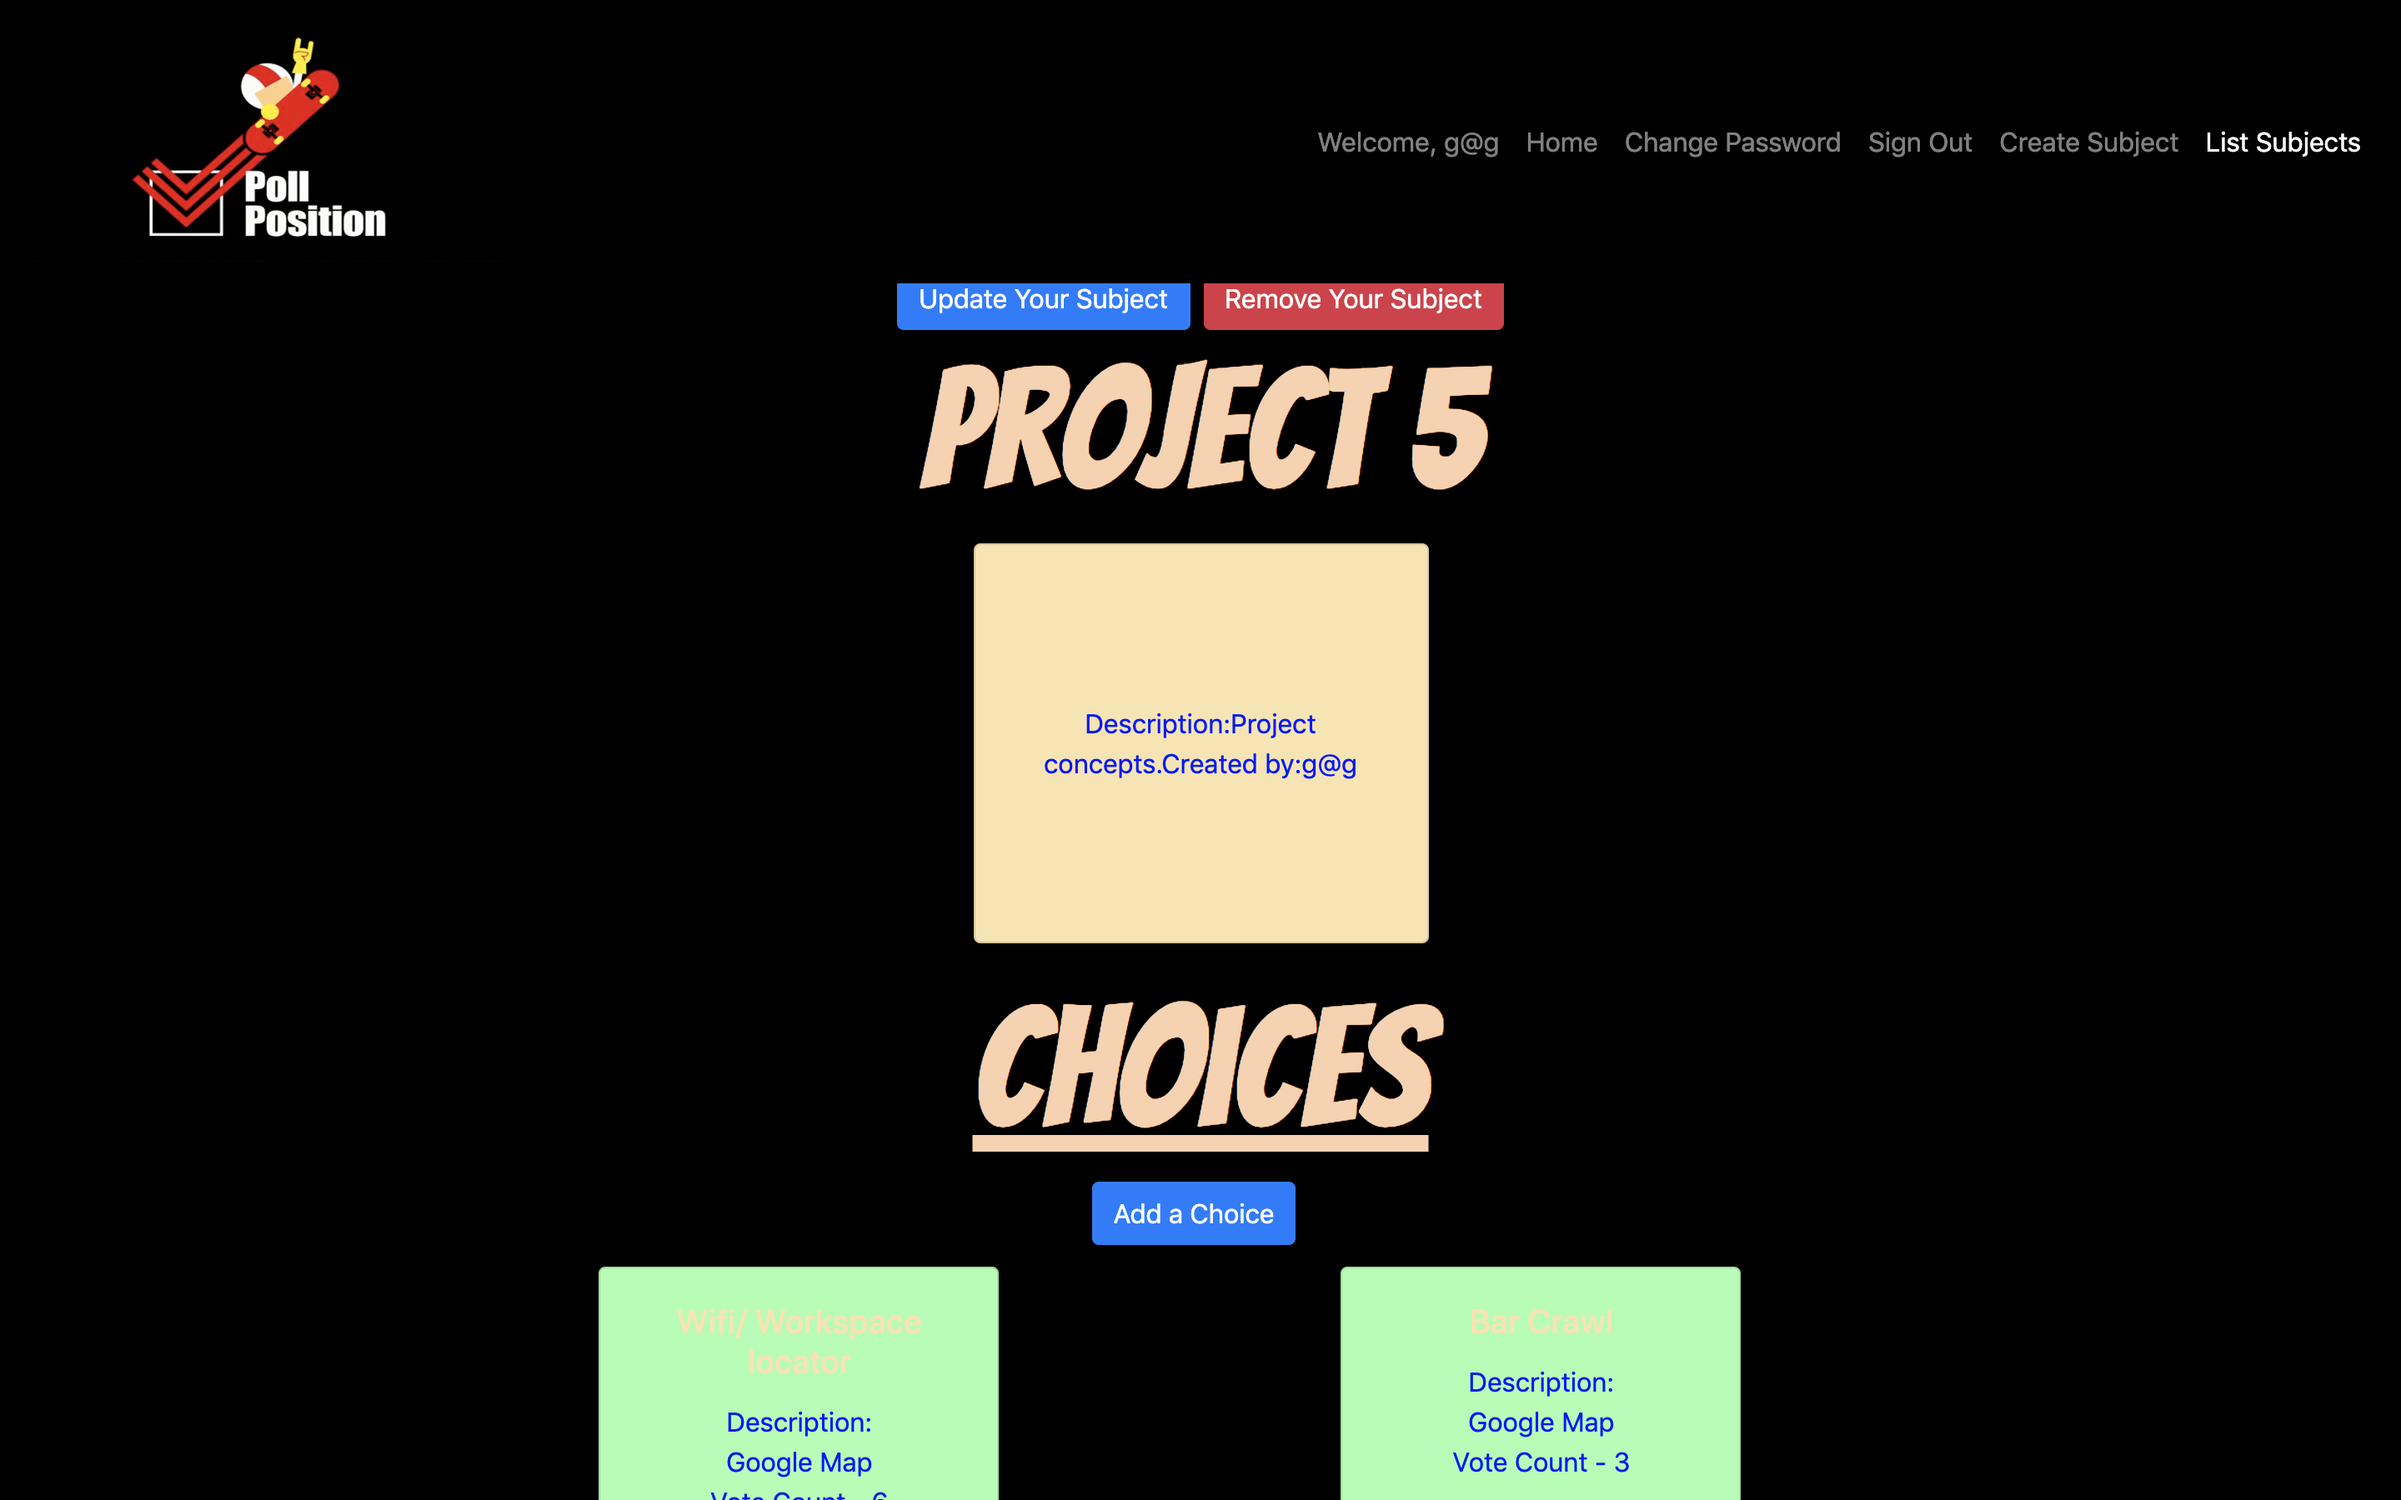
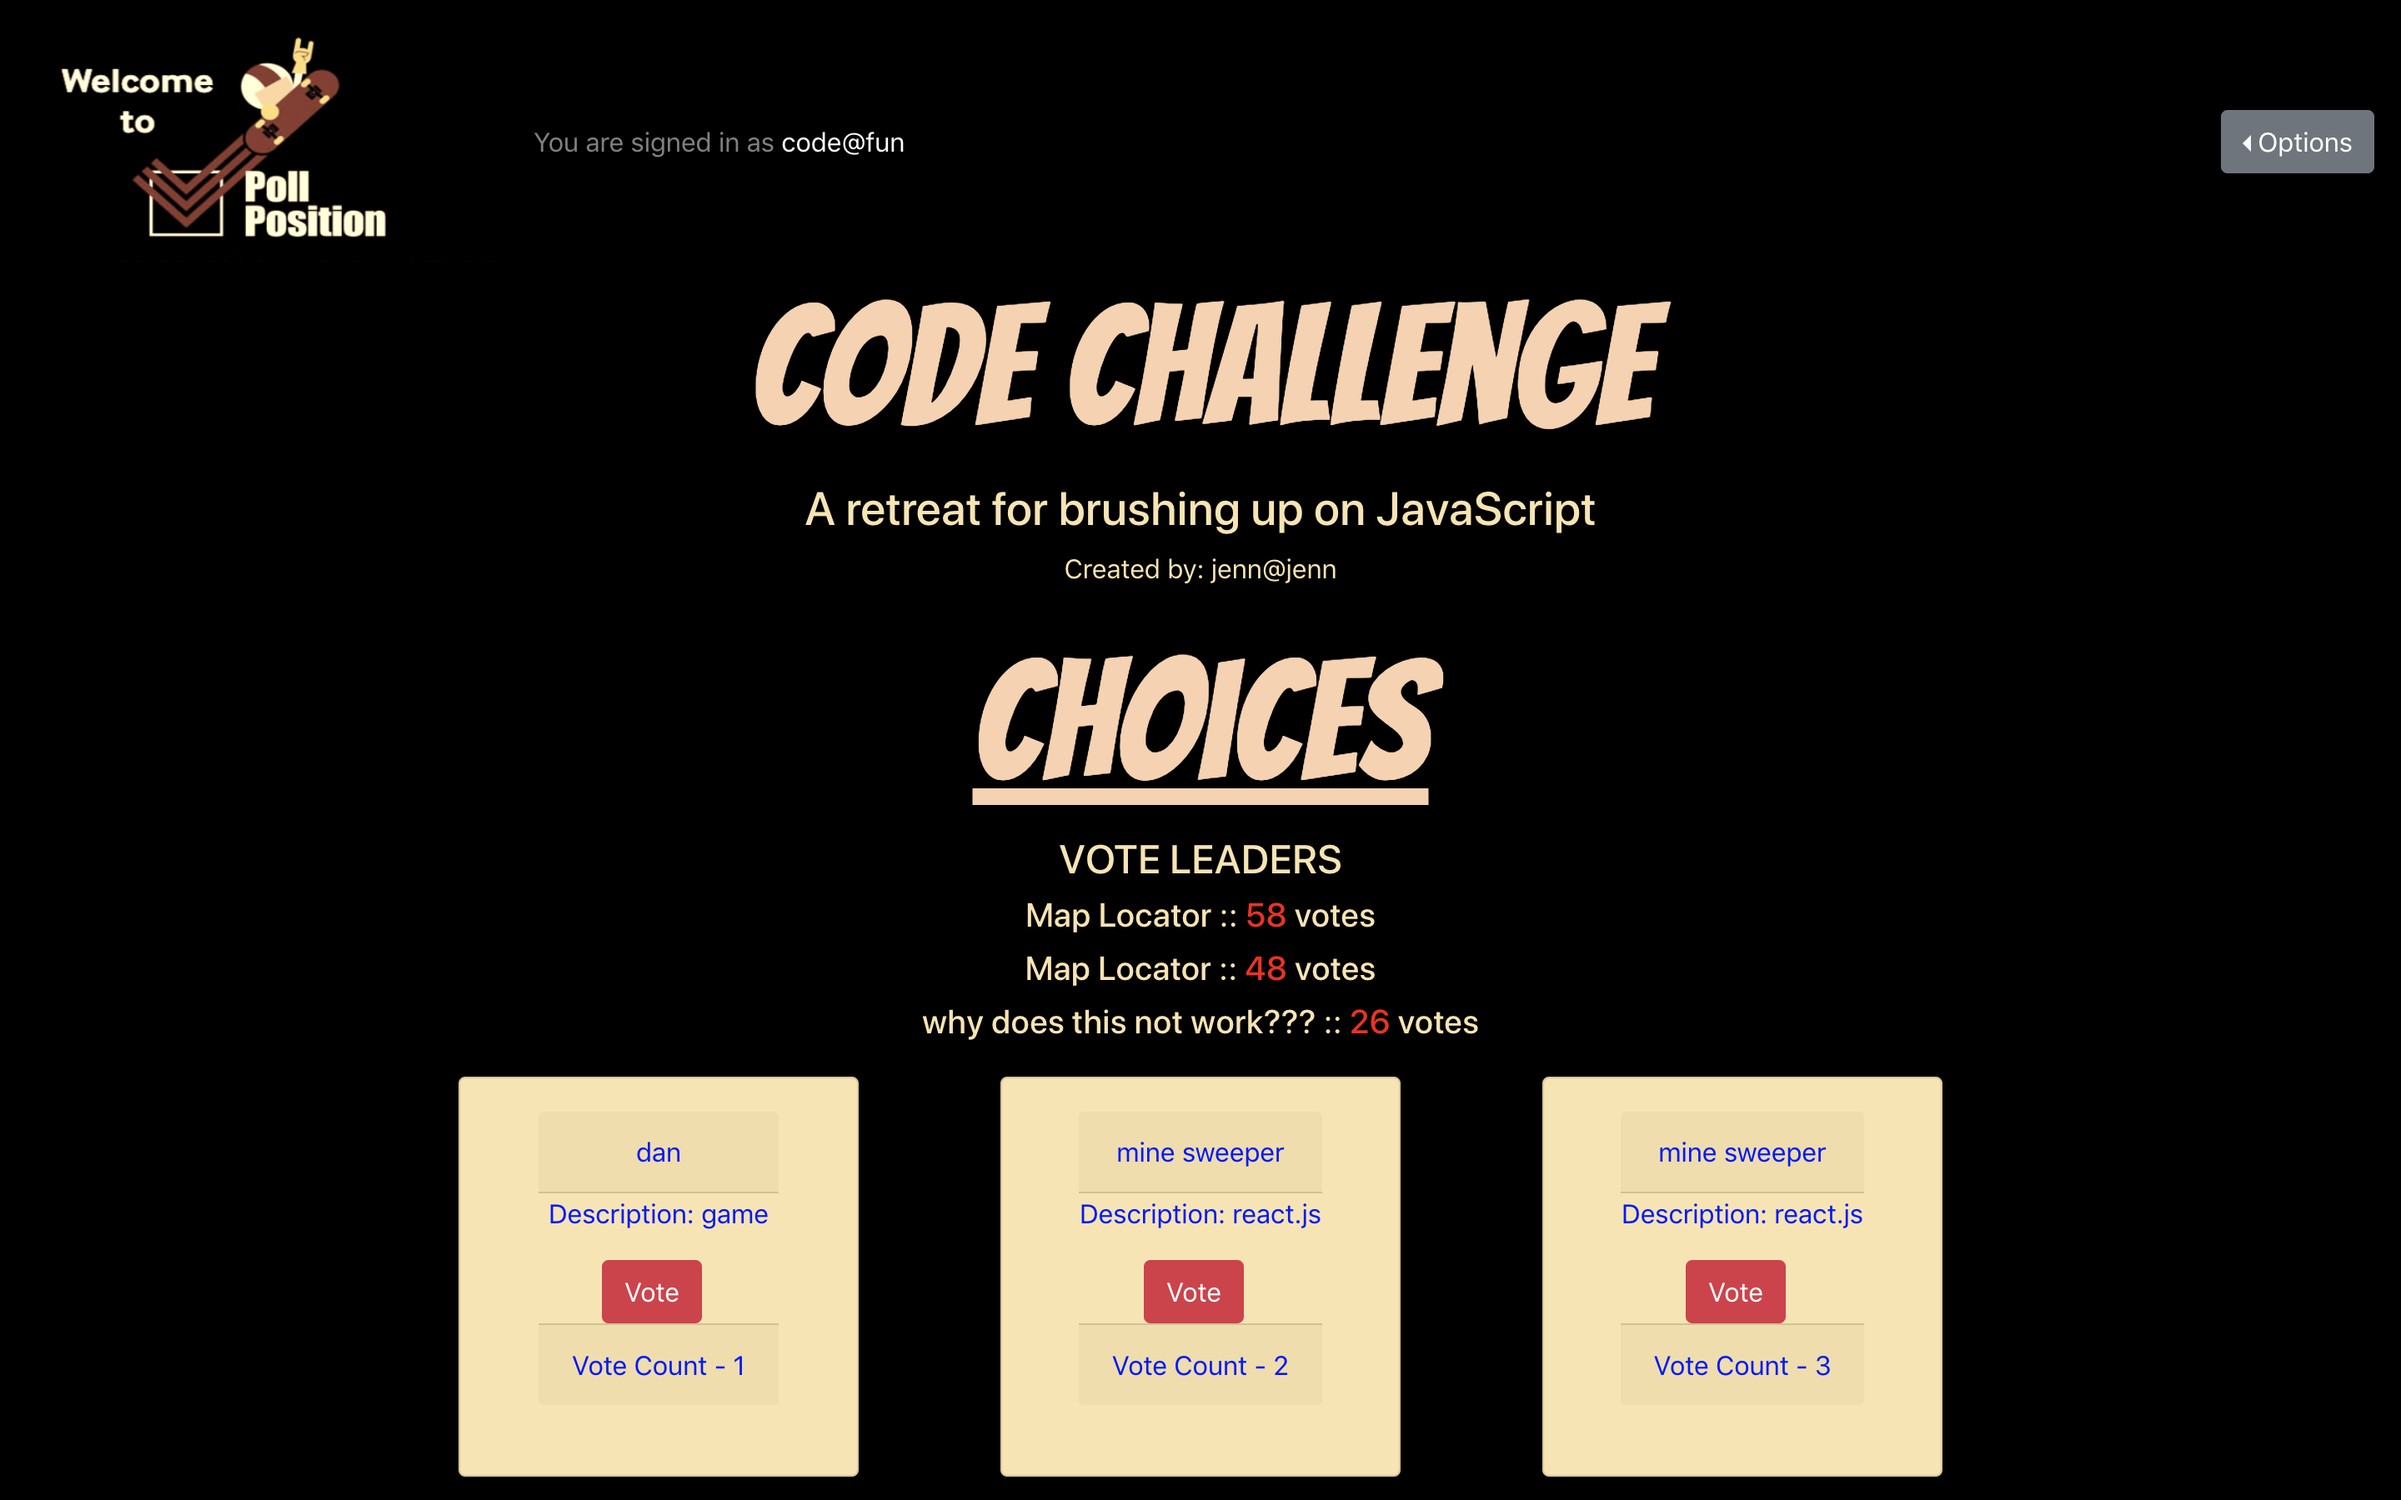
Made some minor design changes

diff --git a/src/components/Subjects/Subject.js b/src/components/Subjects/Subject.js
@@ -125,7 +125,7 @@ const Subject = props => {
   // Map over the top three choices by vote count
   const answer = leaders.map(i => (
     <div key={i.id}>
-      {i.name} Votes= {i.vote}
+      <h5> {i.name} :: <span style={{ color: 'red' }}>{i.vote}</span> votes</h5>
     </div>
   ))
 
@@ -161,29 +161,20 @@ const Subject = props => {
 
   return (
     <div className="subject-board page-content">
-      <h1 className="subject-header"
-        style={{ color: '#fad1ad', fontSize: '100px', fontFamily: 'Bangers' }}>
-        {subject.title}
-      </h1>
-      <Container style={{ display: 'flex', justifyContent: 'center', alignItems: 'center' }}>
-        <Row className="box" style={{ width: '50%' }}>
-          <Card className='menu-item' style={{ backgroundColor: '#fae4ad' }}>
-            <Card.Body>
-              <Card.Header style={{ color: 'blue' }}>Description</Card.Header>
-              <Card.Text style={{ color: 'blue' }}>
-                {subject.description}
-              </Card.Text>
-            </Card.Body>
-            <Card.Footer style={{ color: 'blue' }}>Created by: {subject.user.email}</Card.Footer>
-          </Card>
-        </Row>
-      </Container>
+      <div style={{ marginBottom: '20px' }}>
+        <h1 className="subject-header"
+          style={{ color: '#fad1ad', fontSize: '100px', fontFamily: 'Bangers' }}>
+          {subject.title}
+        </h1>
+        <h3>{subject.description}</h3>
+      Created by: {subject.user.email}
+      </div>
       {showChoice && <div>
         <div className="">
           {userId === subject.user.id &&
-              <Button href={`#subjects/${props.match.params.id}/edit`}
-                variant="primary"
-                className="mr-2">Update Your Subject</Button>}
+        <Button href={`#subjects/${props.match.params.id}/edit`}
+          variant="primary"
+          className="mr-2">Update Your Subject</Button>}
           {userId === subject.user.id &&
               <Button onClick={handleDelete}
                 className="btn btn-danger">Remove Your Subject</Button>}
@@ -194,22 +185,22 @@ const Subject = props => {
           textDecorationLine: 'Underline' }}>
         Choices
         </h2>
-        <div>
-          <Button href={`#subjects/${props.match.params.id}/create-choice`}
-            onClick={handleShow}
-            subject={subject}
-            variant="primary"
-            className="mr-2">Add a Choice</Button>
-        </div>
         <div className='directory-menu'>
           <Container>
             <h4 style={{ textAlign: 'center' }}>
-            LEADERS
-              {answer}
+            VOTE LEADERS
             </h4>
+            {answer}
             <Row className="box">
               {choicesJsx}
             </Row>
+            <div>
+              <Button style={{ marginBottom: '50px' }} href={`#subjects/${props.match.params.id}/create-choice`}
+                onClick={handleShow}
+                subject={subject}
+                variant="primary"
+                className="mr-2">Add a Choice</Button>
+            </div>
           </Container>
         </div>
       </div>}

diff --git a/src/components/Header/Header.js b/src/components/Header/Header.js
@@ -16,8 +16,8 @@ const authenticatedOptions = (
         key={'left'}
       >
         <Dropdown.Item href="#/">Home</Dropdown.Item>
-        <Dropdown.Item href="#create-subject">Create Subject</Dropdown.Item>
-        <Dropdown.Item href="#subjects">List Subjects</Dropdown.Item>
+        <Dropdown.Item href="#create-subject">Create Poll</Dropdown.Item>
+        <Dropdown.Item href="#subjects">List Polls</Dropdown.Item>
         <Dropdown.Item href="#change-password">Change Password</Dropdown.Item>
         <Dropdown.Item href="#sign-out">Sign Out</Dropdown.Item>
       </DropdownButton>
@@ -52,11 +52,11 @@ const Header = ({ user }) => (
   <Navbar collapseOnSelect fixed="top" style={{ backgroundColor: 'black' }} variant="dark" expand="md">
     <Navbar.Brand href="#">
       <img
-        src='./Poll.jpg'
+        src='./PollPositionHome.png'
         style= {{ margin: '0 auto', width: '20vw', height: '10vw' }}
       />
     </Navbar.Brand>
-    <Nav>{ user && <span className="navbar-text mr-2">Welcome, {user.email}</span>}</Nav>
+    <Nav>{ user && <span className="navbar-text mr-2">You are signed in as <span style={{ color: 'white' }}>{user.email}</span></span>}</Nav>
     <Navbar.Toggle aria-controls="basic-navbar-nav" />
     <Navbar.Collapse id="basic-navbar-nav">
       <Nav className="ml-auto">

diff --git a/src/components/Subjects/Subject.scss b/src/components/Subjects/Subject.scss
@@ -1,28 +1,5 @@
 @import '~bootstrap/scss/bootstrap';
 
-
-// .subject-header {
-//   font-size: 100rem;
-//   color: blue;
-// }
-
-// .subject-container {
-//     display: flex;
-//     flex-direction: column;
-//     background-color: #95dada;
-//     border: 1px solid grey;
-//     border-radius: 5px;
-//     padding: 25px;
-//     cursor: pointer;
-//     -moz-osx-font-smoothing: grayscale;
-//     backface-visibility: hidden;
-//     transform: translateZ(0);
-//     transition: transform 0.25s ease-out;
-//   }
-
-  // .subject-container:hover {
-  //   transform: scale(1.05);
-  // }
   .box {
     display: flex;
     align-items: center;
@@ -30,9 +7,6 @@
   }
 
   .homepage {
-    // display: flex;
-    // flex-direction: column;
-    // align-items: center;
     padding: 20px 20px;
   }
 
@@ -44,7 +18,6 @@
   }
 
   .menu-item {
-    // min-width: 30%;
     height: 240px;
     width: 240px;
     flex: 1 1 auto;

diff --git a/src/components/App/App.js b/src/components/App/App.js
@@ -13,7 +13,6 @@ import Subjects from '../Subjects/Subjects.js'
 import SubjectCreate from '../Subjects/SubjectCreate.js'
 import SubjectEdit from '../Subjects/SubjectEdit.js'
 import ChoiceCreate from '../Choices/ChoiceCreate.js'
-import Choices from '../Choices/Choices.js'
 import ChoiceEdit from '../Choices/ChoiceEdit.js'
 import Home from '../Home/Home.js'
 
@@ -76,9 +75,6 @@ class App extends Component {
           )} />
           <AuthenticatedRoute user={user} path='/subjects/:id/edit' render={() => (
             <SubjectEdit alert={this.alert} user={user} />
-          )} />
-          <AuthenticatedRoute user={user} exact path='/choices' render={() => (
-            <Choices alert={this.alert} user={user} />
           )} />
           <AuthenticatedRoute user={user} path='/subjects/:id/create-choice' render={() => (
             <ChoiceCreate alert={this.alert} user={user} />

diff --git a/src/components/Choices/ChoiceForm.js b/src/components/Choices/ChoiceForm.js
@@ -7,6 +7,7 @@ import Button from 'react-bootstrap/Button'
 const ChoiceForm = ({ props, subjectId, choice, handleSubmit, handleChange, cancelPath }) => (
   <div className="subject-board row">
     <div className="col-sm-10 col-md-8 mx-auto mt-5">
+      <h1>Create A Choice</h1>
       <Form onSubmit={handleSubmit}>
         <Form.Group>
           <Form.Label htmlFor="content"></Form.Label>
@@ -48,9 +49,9 @@ const ChoiceForm = ({ props, subjectId, choice, handleSubmit, handleChange, canc
           />
         </Form.Group>
 
-        <Button variant="primary" type="submit">Submit</Button>
+        <Button style={{ margin: '10px' }} variant="primary" type="submit">Submit</Button>
         <Link to="/">
-          <Button>Cancel</Button>
+          <Button style={{ margin: '10px' }}>Cancel</Button>
         </Link>
       </Form>
     </div>

diff --git a/src/components/Subjects/SubjectForm.js b/src/components/Subjects/SubjectForm.js
@@ -7,6 +7,7 @@ import Button from 'react-bootstrap/Button'
 const SubjectForm = ({ subject, handleSubmit, handleChange, cancelPath }) => (
   <div className="subject-board row body">
     <div className="col-sm-10 col-md-8 mx-auto mt-5">
+      <h1>Create A Poll!</h1>
       <Form onSubmit={handleSubmit}>
         <Form.Group>
           <Form.Label htmlFor="content">Title</Form.Label>
@@ -30,9 +31,9 @@ const SubjectForm = ({ subject, handleSubmit, handleChange, cancelPath }) => (
           />
         </Form.Group>
 
-        <Button variant="primary" type="submit">Submit</Button>
+        <Button style={{ margin: '10px' }} variant="primary" type="submit">Submit</Button>
         <Link to="/subjects">
-          <Button>Cancel</Button>
+          <Button style={{ margin: '10px' }}>Cancel</Button>
         </Link>
       </Form>
     </div>

diff --git a/src/index.scss b/src/index.scss
@@ -3,11 +3,8 @@
 body {
   height: 100%;
   text-align: center;
-  // padding-top: 10rem;
-  // background-image: url('./felt-bg.jpg');
   color: #fae4ad;
   background-color: black;
-  // background-repeat: no-repeat;
   background-size: cover;
   background-position: center;
   background-attachment: fixed;
@@ -18,9 +15,6 @@ body {
   padding-top: 10rem;
 }
 
-// .body {
-//   background-color: black;
-// }
 .body {
 height: 100%;
 color: #fae4ad;
@@ -28,14 +22,7 @@ text-align: center;
 align-items: center;
 min-height: 100vh;
 min-width: 100vw;
-// padding-top: 5rem;
-// background-image: url('./felt-bg.jpg');
 background-color: black;
-// background-repeat: no-repeat;
-// background-size: cover;
-// background-position: center;
-// background-attachment: fixed;
-// margin-bottom: 100px;
 }
 
 .subject-container {

diff --git a/src/components/Choices/ChoiceCreate.js b/src/components/Choices/ChoiceCreate.js
@@ -1,6 +1,6 @@
 import React, { useState } from 'react'
 import axios from 'axios'
-import { Redirect, withRouter } from 'react-router-dom'
+import { withRouter } from 'react-router-dom'
 import apiUrl from '../../apiConfig'
 import ChoiceForm from './ChoiceForm.js'
 
@@ -26,8 +26,7 @@ const ChoiceCreate = props => {
     })
       .then(response => {
         props.alert({ heading: 'Success', message: 'You created a choice', variant: 'success' })
-        props.history.push(`choices/${response.data.choice.id}`)
-        return <Redirect to={'/subjects/'} />
+        props.history.push('/subjects')
       })
       .catch(console.error)
   }

diff --git a/src/components/Subjects/Subjects.js b/src/components/Subjects/Subjects.js
@@ -25,8 +25,6 @@ const Subjects = props => {
       .catch(console.error)
   }, [])
 
-  // console.log(subjects)
-
   const subjectsJsx = subjects.map(subject => (
     <div className='homepage' key={subject.id}>
       {<Col lg={3} xs={3} md={3}>
@@ -43,8 +41,8 @@ const Subjects = props => {
   return (
     <div className="page-content">
       <div style={{ textAlign: 'center' }}>
-        <h1>Choose an Event</h1>
-        <p>Add a choice or cast a vote!</p>
+        <h1>Choose A Poll</h1>
+        <p>Add a choice to a Poll or cast a vote!</p>
       </div>
       <div className='directory-menu'>
         <Container>

diff --git a/src/components/Subjects/SubjectCreate.js b/src/components/Subjects/SubjectCreate.js
@@ -30,20 +30,12 @@ const SubjectCreate = props => {
       .catch(console.error)
   }
 
-  const noNums = function (event) {
-    const re = /[A-Za-z_?_ ]+/g
-    if (!re.test(event.key)) {
-      event.preventDefault()
-    }
-  }
-
   return (
     <div className="subject-board body">
       <SubjectForm
         subject={subject}
         handleChange={handleChange}
         handleSubmit={handleSubmit}
-        noNums={noNums}
         cancelPath="/"
       />
     </div>

diff --git a/src/components/Subjects/SubjectEdit.js b/src/components/Subjects/SubjectEdit.js
@@ -37,17 +37,9 @@ const SubjectEdit = (props) => {
     return <Redirect to={`/subjects/${props.match.params.id}`} />
   }
 
-  const noNums = function (event) {
-    const re = /[A-Za-z_?_ ]+/g
-    if (!re.test(event.key)) {
-      event.preventDefault()
-    }
-  }
-
   return (
     <SubjectForm
       subject={subject}
-      noNums={noNums}
       handleChange={handleChange}
       handleSubmit={handleSubmit}
       cancelPath={`#home/${props.match.params.id}`}

diff --git a/src/components/App/App.scss b/src/components/App/App.scss
@@ -8,22 +8,8 @@
     background-attachment: fixed;
 }
 
-// .App-content {
-//     height: 100%;
-//     display: flex;
-//     flex-direction: column;
-//     justify-content: flex-start;
-//     align-items: center;
-//     padding: 40px;
-// }
-
 @media (min-width: 650px ) {
     .App {
         background-position: center center;
     }
-
-    // .App-content {
-    //     align-items: flex-end;
-    //     justify-content: center;
-    // }
 }
